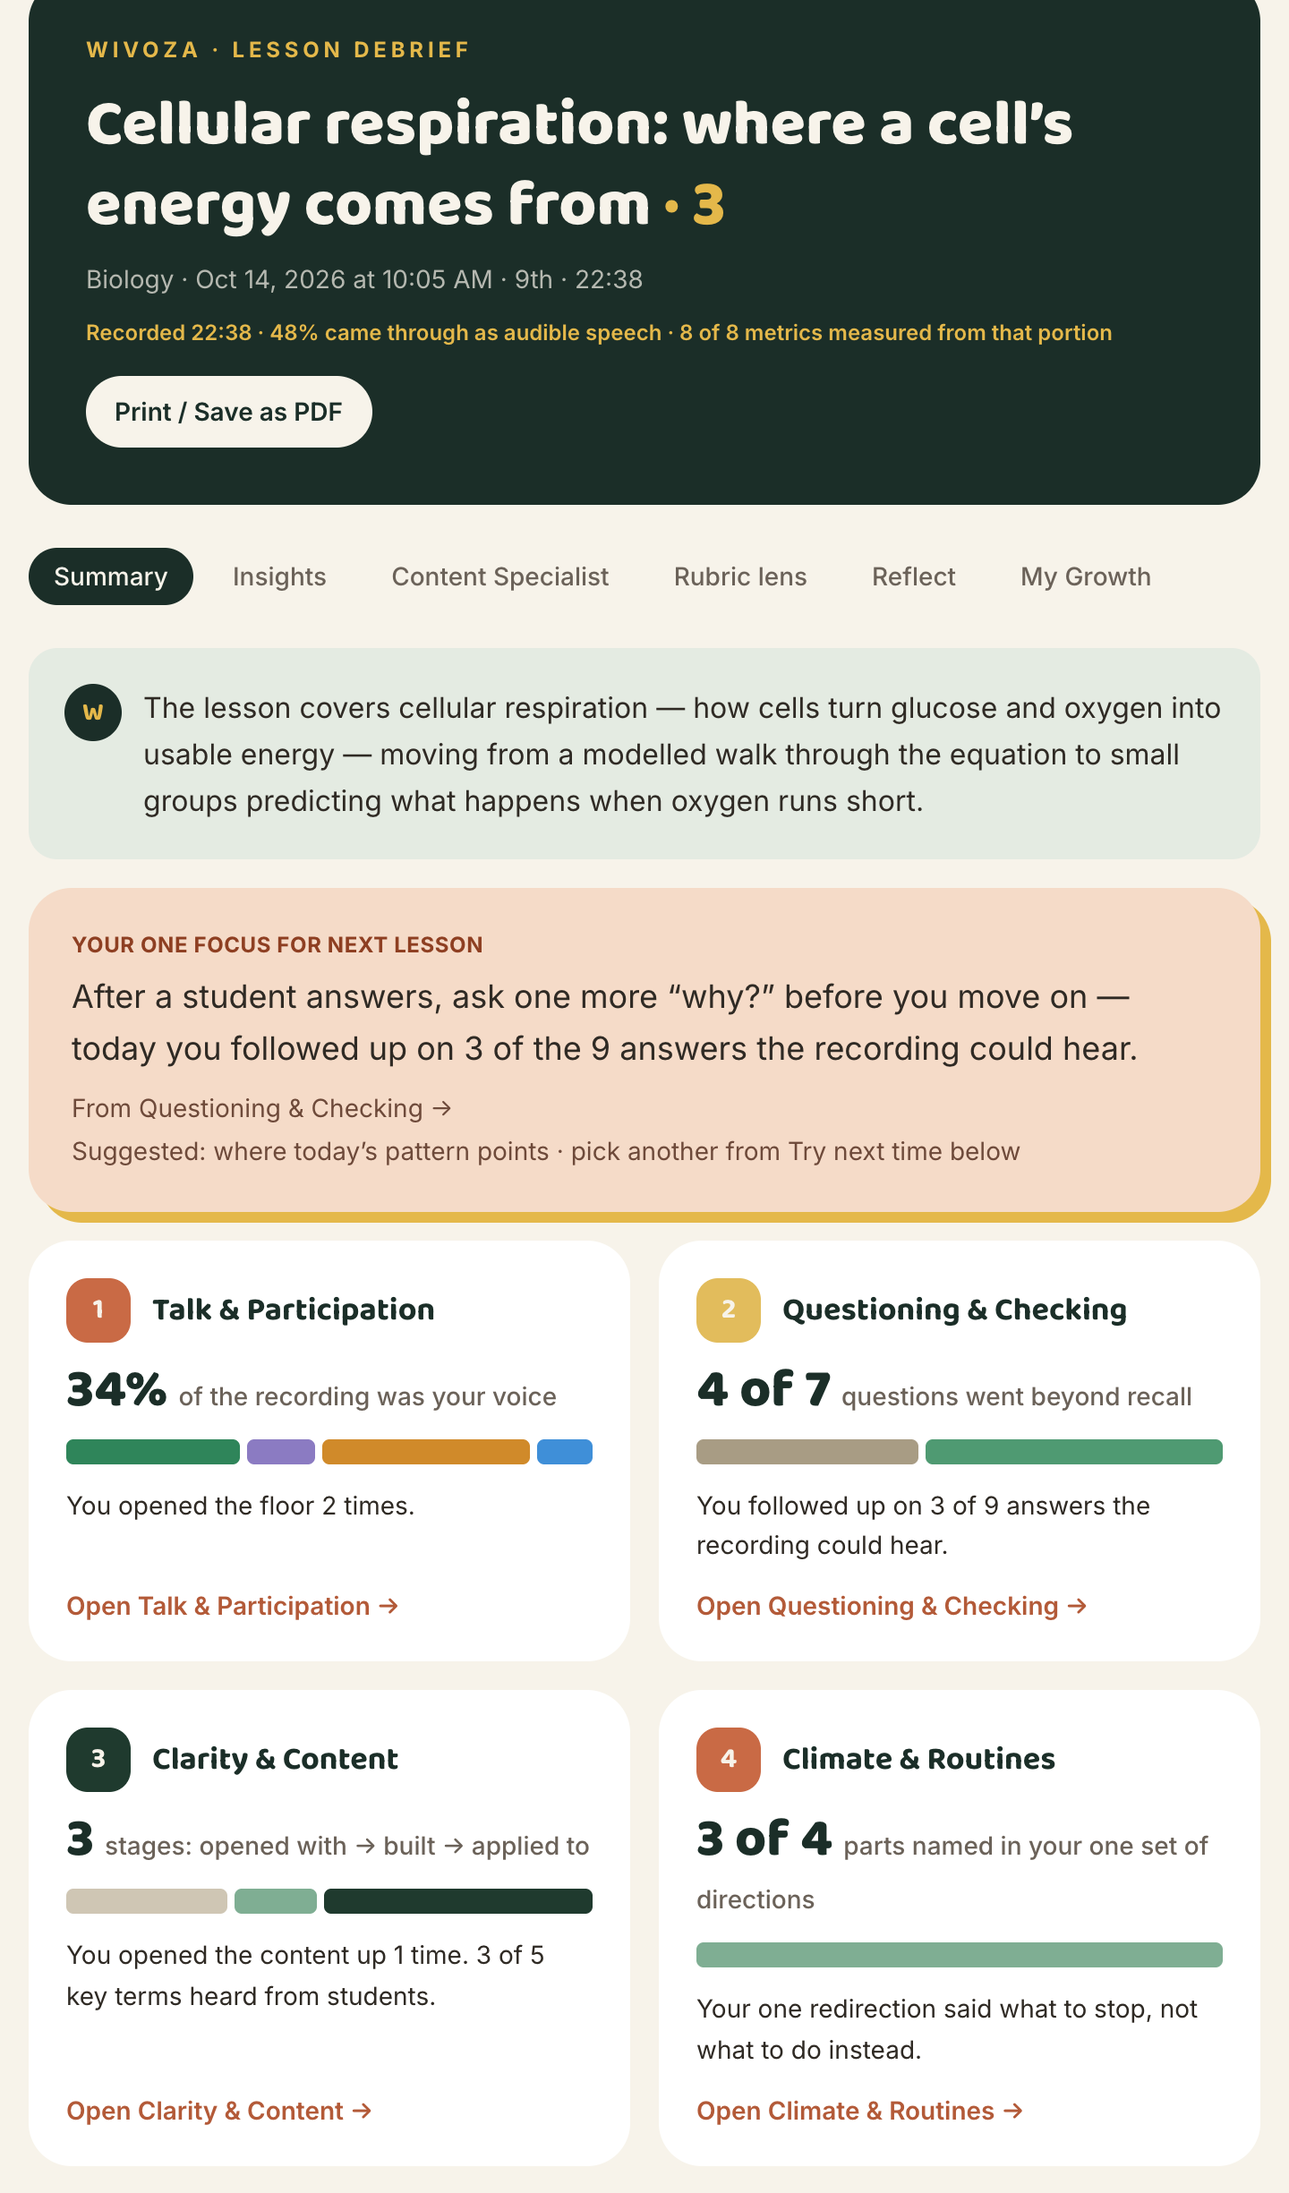
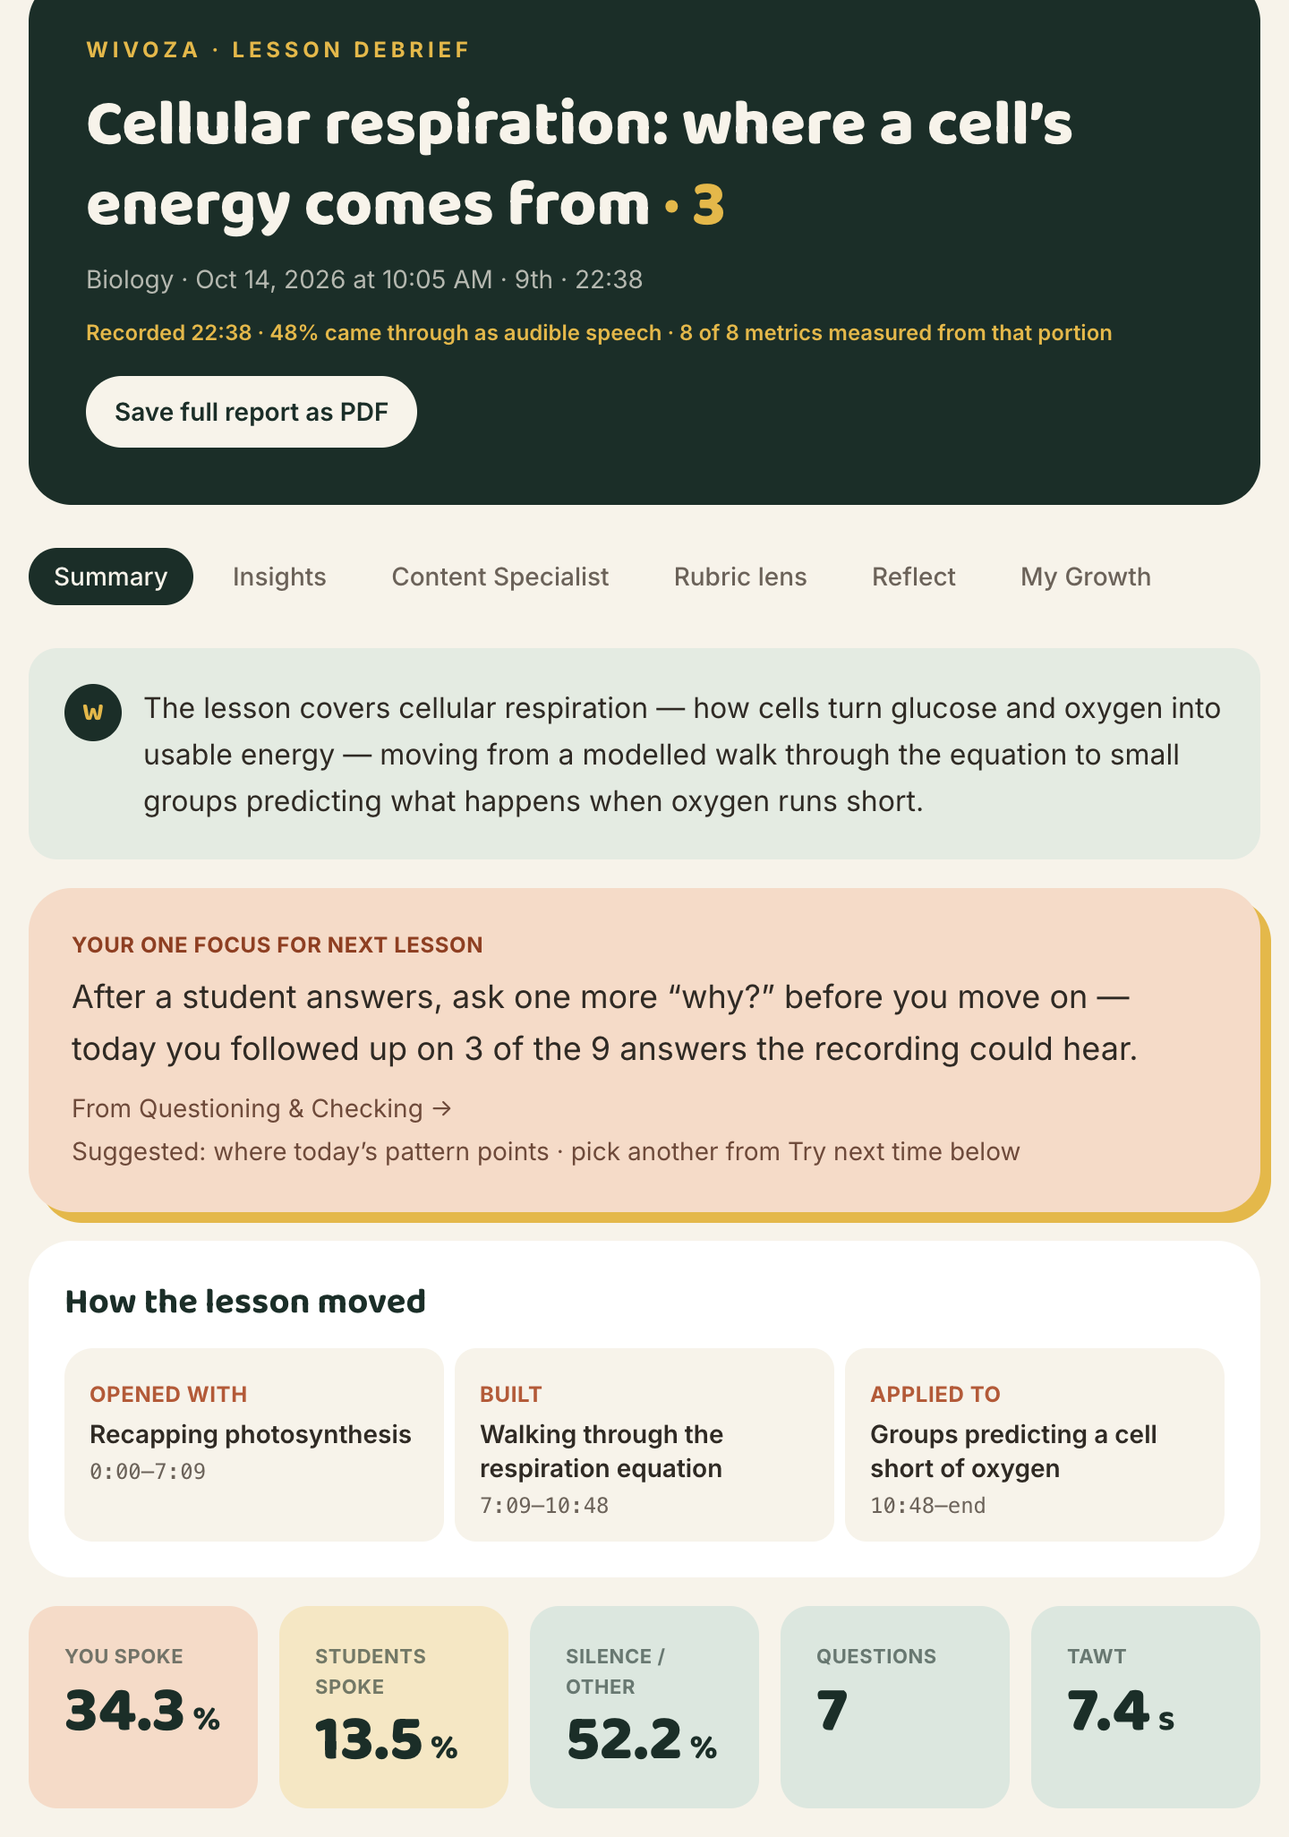
The website describes today's Lesson Debrief: TAWT, the questions timeline, the full PDF
The Guide, the Lesson Debrief guide and the FAQ now describe the Summary's
lesson map and five tiles, Teacher-Anchored Wait Time, the questions
timeline with answered-yourself and follow-up kinds and what is heard but
not counted, and saving the full report as a PDF. The home page hero's
Summary screenshot is retaken with the new layout; the capture script now
also renames the lesson's stages and fails if any real-lesson word is left
in the shot.

diff --git a/web/src/pages/Guide.tsx b/web/src/pages/Guide.tsx
@@ -201,17 +201,17 @@ const TELEGRAM: Feature = {
 }
 
 const REPORT_TABS: SpecItem[] = [
-  { label: 'Summary', body: 'the 60-second read. It opens with what the lesson covered, then your one focus for next lesson — suggested from the pattern across the report, or one you pick yourself. Below it, one card per Insights section with the number that section leads with, one thing to keep doing (with your own words and the time you said them), and a "Try next time" list that gathers every suggestion in the report. Any item on that list can become your focus, and the report asks whether you want to plan your next class with it in mind, carrying the ones you tick into Planning Coach. The whole-lesson Hard Look opens from here too.' },
-  { label: 'Insights', body: 'the detail, in four sections — see below. Each one opens with a short note, shows its evidence as your own words with timestamps, and ends with one thing to keep and one to try. Each can also be given the Hard Look: on request, the least generous reading its evidence supports, with the moments behind it. Where the recording cannot carry a criticism it says so, and it never appears in the printable report.' },
+  { label: 'Summary', body: 'the 60-second read. It opens with what the lesson covered, then your one focus for next lesson — suggested from the pattern across the report, or one you pick yourself. Below it, how the lesson moved — what it opened with, built and applied to, with the times — and the lesson’s numbers: your share of the recording, the students’ share, silence and other sound, the questions you asked, and your Teacher-Anchored Wait Time. Then one thing to keep doing (with your own words and the time you said them), and a "Try next time" list that gathers every suggestion in the report. Any item on that list can become your focus, and the report asks whether you want to plan your next class with it in mind, carrying the ones you tick into Planning Coach. The whole-lesson Hard Look opens from here too, and so does Save the full report as a PDF: this Summary and all four Insights sections, each on its own page, with every list opened up.' },
+  { label: 'Insights', body: 'the detail, in four sections — see below. Each one opens with a short note, shows its evidence as your own words with timestamps, and ends with one thing to keep and one to try. Each can also be given the Hard Look: on request, the least generous reading its evidence supports, with the moments behind it. Where the recording cannot carry a criticism it says so, and it never appears in the PDF.' },
   { label: 'Content Specialist', body: 'ideas for teaching this subject from a subject-area specialist\'s point of view — what worked, where it could go further, and where students tend to get stuck — each tied to a moment in the lesson. It is ideas for the topic, not a read of how you taught it.' },
   { label: 'Rubric lens', body: 'on request, this lesson sorted under the Danielson rubric\'s Domains 2 and 3 — the moments that speak to each component and one next step for it. Never a level or a score.' },
   { label: 'Reflect', body: 'a spoken debrief with Coach about what the report found. Pick a starting point (talk through today\'s highlights, explore a specific moment, reflect on how the lesson felt, or ask your own question), then talk it through — pause, resume, or type instead at any point. Finish with your own Strengths / Growth areas / My next step / Follow-up date notes, optionally drafted for you from the conversation, and a Lock button that makes the whole report permanently read-only.' },
-  { label: 'My Growth', body: 'seven measures trended across every session you\'ve recorded — your pace, your share of the talk, your longest unbroken stretch, the pause after an answer, follow-up questions, questions beyond recall, and checks for understanding. Pick one as your active focus and it\'s highlighted here and on Summary.' },
+  { label: 'My Growth', body: 'seven measures trended across every lesson you\'ve recorded — your pace, your share of the talk, your longest unbroken stretch, the pause after an answer, follow-up questions, questions beyond recall, and checks for understanding. Pick one as your active focus and it\'s highlighted here and on Summary.' },
 ]
 
 const INSIGHTS_SECTIONS: SpecItem[] = [
   { label: 'Talk & Participation', body: 'who was heard, and for how long: your share of the recording, the students\' share, and your pace in words a minute, then the recording minute by minute. Below that, how you brought students in — invitations to share, follow-ups that asked for more, and reaching beyond volunteers — on one timeline, with every moment in order.' },
-  { label: 'Questioning & Checking', body: 'your questions and checks for understanding on one timeline, each question sorted as recall, explain, or reasoning, so you can see how many went beyond recall. Then who you asked (open to anyone or a student by name) and your follow-ups — how many of the student answers the recording could hear you built on, and which ones you didn\'t.' },
+  { label: 'Questioning & Checking', body: 'your questions and checks for understanding on one timeline, each in its own colour: recall, explain and reasoning (so you can see how many went beyond recall), questions you answered yourself before a student could, and follow-ups straight after a student answer. Tap a kind or a dot to see its moments. Under it, Teacher-Anchored Wait Time (TAWT): after each question that asked students to explain or reason, the time until you spoke again, any answer included, listed question by question with whether a student answered. Then what was heard but not counted as a question: "right?" and "okay?" tags, and housekeeping questions like "where is it?".' },
   { label: 'Clarity & Content', body: 'how the lesson moved — what it opened with, built, and applied to, with the times — then the moments you made the content clear, sorted into examples & explanations, linking ideas, and real-world connections, and how many of the lesson\'s key terms were heard from students.' },
   { label: 'Climate & Routines', body: 'how your words set up the work, kept it on track, and encouraged students: directions & routines (and which of the four parts — what to do, the steps, how long, what to hand in — each set of directions named), redirection & expectations, and encouragement & respect. All as your own words, never a behavior score.' },
 ]
@@ -228,7 +228,7 @@ const LESSON_DEBRIEF: Feature = {
     { label: 'Before recording', body: 'class/subject, period, grade level, and session date are all optional.' },
     { label: 'While recording', body: 'a running timer with record, pause, resume, and stop controls, capturing entirely in your browser.' },
     { label: 'After you stop', body: 'Wivoza transcribes the recording, then shows you a sample line from each detected voice and asks which one is the teacher — everyone else is grouped as Student. The audio is discarded at that point; only the text goes on to the report.' },
-    { label: 'Managing sessions', body: 'set a retention period in Profile (7 / 30 / 90 days, or indefinite), lock a report to make it permanently read-only, export a printable copy, or delete it outright.' },
+    { label: 'Managing sessions', body: 'set a retention period in Profile (7 / 30 / 90 days, or indefinite), lock a report to make it permanently read-only, save the full report as a PDF, or delete it outright.' },
   ],
 }
 

diff --git a/web/src/pages/GuideLessonDebrief.tsx b/web/src/pages/GuideLessonDebrief.tsx
@@ -55,7 +55,7 @@ const STEPS = [
   },
   {
     title: 'Read the report',
-    body: 'Summary first: what the lesson covered, your one focus for next lesson, one card for each of the four Insights sections, and one thing to keep doing. Insights holds the detail. My Growth shows the same numbers trending across every session you’ve recorded.',
+    body: 'Summary first: what the lesson covered, your one focus for next lesson, how the lesson moved, its numbers, and one thing to keep doing. Insights holds the detail. My Growth shows the same numbers trending across every session you’ve recorded.',
   },
   {
     title: 'Talk it through',
@@ -66,7 +66,7 @@ const STEPS = [
 const TABS = [
   {
     name: 'Summary',
-    body: 'What the lesson covered, your one focus for next lesson, a card for each Insights section, one thing to keep doing, and a “Try next time” list you can carry straight into your next plan.',
+    body: 'What the lesson covered, your one focus for next lesson, how the lesson moved, the lesson’s numbers, one thing to keep doing, and a “Try next time” list you can carry straight into your next plan. Save the whole report as a PDF from here.',
   },
   {
     name: 'Insights',
@@ -92,11 +92,11 @@ const TABS = [
 
 const STORY = [
   'Mr. Boateng is proud of third-period science. It’s discussion-based, students argue about evidence, and the room is never quiet. He records it expecting the report to confirm what he already believes.',
-  'It doesn’t, exactly. Talk & Participation shows he was speaking for 74% of the period. His average wait time after a question is 1.2 seconds.',
+  'It doesn’t, exactly. Talk & Participation shows he was speaking for 74% of the period. His Teacher-Anchored Wait Time — how long he leaves a thinking question with the class before he speaks again — is 1.2 seconds.',
   'His first reaction is to argue with it — a lot of that talk was him restating student ideas so the class could hear them. Which is true, and it’s also the finding.',
   'In the Reflect tab he says exactly that out loud. Coach asks what would happen if he waited instead of restating. He doesn’t love the answer: probably silence, and he’d fill it.',
   'His next step is small enough to actually do: after each open question, count to five in his head before saying anything. He writes it in his notes and sets a follow-up date for two weeks out.',
-  'The next recording isn’t a transformation. Wait time is 2.9 seconds and his talk share is 66% — better, not fixed. But My Growth now has two points on a line instead of one opinion, and he knows which direction it’s going.',
+  'The next recording isn’t a transformation. His wait time is 2.9 seconds and his talk share is 66% — better, not fixed. But My Growth now has two points on a line instead of one opinion, and he knows which direction it’s going.',
 ]
 
 const DEBRIEF_QUESTIONS = [
@@ -147,19 +147,36 @@ function SampleReport() {
         <p className="mt-1.5 text-xs text-ink-soft">Suggested: where today’s pattern points · or pick another from Try next time</p>
       </div>
 
-      <div className="grid gap-3 sm:grid-cols-2">
+      <div className="rounded-xl border border-hairline bg-cream-card p-4">
+        <p className="text-sm font-semibold text-ink">How the lesson moved</p>
+        <div className="mt-2 grid gap-1.5 sm:grid-cols-3">
+          {[
+            { role: 'Opened with', title: 'Recapping photosynthesis', time: '0:00–6:40' },
+            { role: 'Built', title: 'Walking through the respiration equation', time: '6:40–18:15' },
+            { role: 'Applied to', title: 'Groups predicting a cell short of oxygen', time: '18:15–end' },
+          ].map((st) => (
+            <div key={st.role} className="rounded-lg bg-cream px-3 py-2">
+              <p className="text-[11px] font-bold uppercase tracking-wide text-terracotta-600">{st.role}</p>
+              <p className="text-sm font-semibold leading-snug text-ink">{st.title}</p>
+              <p className="font-mono text-[11px] text-ink-soft">{st.time}</p>
+            </div>
+          ))}
+        </div>
+      </div>
+
+      <div className="grid grid-cols-2 gap-2 sm:grid-cols-5">
         {[
-          { n: 1, name: 'Talk & Participation', big: '62%', line: 'of the recording was your voice' },
-          { n: 2, name: 'Questioning & Checking', big: '9 of 22', line: 'questions went beyond recall' },
-          { n: 3, name: 'Clarity & Content', big: '3', line: 'stages: opened with → built → applied to' },
-          { n: 4, name: 'Climate & Routines', big: '2 of 3', line: 'sets of directions named every part' },
-        ].map((c) => (
-          <div key={c.n} className="rounded-xl border border-hairline bg-cream-card p-4">
-            <p className="text-xs font-semibold uppercase tracking-wide text-ink-soft">
-              {c.n} · {c.name}
-            </p>
-            <p className="mt-1.5 text-sm text-ink">
-              <strong className="font-heading text-lg font-extrabold text-forest">{c.big}</strong> {c.line}
+          { label: 'You spoke', value: '62', unit: '%', tint: 'bg-peach-tint' },
+          { label: 'Students spoke', value: '27', unit: '%', tint: 'bg-gold-tint' },
+          { label: 'Silence / other', value: '11', unit: '%', tint: 'bg-mint-tint' },
+          { label: 'Questions', value: '22', unit: '', tint: 'bg-mint-tint' },
+          { label: 'TAWT', value: '2.4', unit: 's', tint: 'bg-mint-tint' },
+        ].map((t) => (
+          <div key={t.label} className={`rounded-xl px-3 py-2.5 ${t.tint}`}>
+            <p className="text-[10px] font-bold uppercase tracking-wide text-forest/60">{t.label}</p>
+            <p className="font-heading text-2xl font-extrabold leading-tight text-forest">
+              {t.value}
+              {t.unit && <span className="ml-0.5 text-sm font-bold">{t.unit}</span>}
             </p>
           </div>
         ))}

diff --git a/web/src/pages/Faq.tsx b/web/src/pages/Faq.tsx
@@ -73,7 +73,15 @@ const CATEGORIES: Category[] = [
       },
       {
         q: 'What do I get from a Lesson Debrief?',
-        a: 'A private report with six tabs. Summary is the 60-second read: what the lesson covered, one focus for next lesson, a card for each of four sections, and one thing to keep doing. Insights has the detail in those four sections — Talk & Participation, Questioning & Checking, Clarity & Content, and Climate & Routines — always shown in your own words, with the time you said them. Content Specialist offers a subject specialist\'s ideas for teaching the topic. Rubric lens, Reflect, and My Growth cover the rest.',
+        a: 'A private report with six tabs. Summary is the 60-second read: what the lesson covered, one focus for next lesson, how the lesson moved, its numbers, and one thing to keep doing. Insights has the detail in those four sections — Talk & Participation, Questioning & Checking, Clarity & Content, and Climate & Routines — always shown in your own words, with the time you said them. Content Specialist offers a subject specialist\'s ideas for teaching the topic. Rubric lens, Reflect, and My Growth cover the rest.',
+      },
+      {
+        q: 'What is Teacher-Anchored Wait Time (TAWT)?',
+        a: 'After each question that asks students to explain or reason, how long you left it with the class before you spoke again, with any student answer included. The report lists each of those questions with its time, and whether a student answered, no one did, or you kept talking. It measures your side of the pause, which the microphone hears reliably even when students are faint. When no one answered, three seconds or more of silence gives most students time to think.',
+      },
+      {
+        q: 'Can I save or share a Lesson Debrief?',
+        a: 'Yes. On the Summary, choose Save the full report as a PDF. You get the Summary and all four Insights sections, each on its own page, with every list opened up. The Hard Look is never included. The PDF is yours to keep or pass on; nothing is shared unless you send it.',
       },
       {
         q: 'What if the recording only caught part of the lesson?',
@@ -81,7 +89,7 @@ const CATEGORIES: Category[] = [
       },
       {
         q: 'What is the Hard Look?',
-        a: 'An optional second reading of a Lesson Debrief that says the least generous thing the evidence can support, with the moments it is based on — for the whole lesson from the Summary, or for one section from the foot of that section. You ask for it; it never appears on its own. Where the recording cannot carry a criticism it says so, and it is left out of the printable report, so it stays between you and Coach.',
+        a: 'An optional second reading of a Lesson Debrief that says the least generous thing the evidence can support, with the moments it is based on — for the whole lesson from the Summary, or for one section from the foot of that section. You ask for it; it never appears on its own. Where the recording cannot carry a criticism it says so, and it is left out of the PDF, so it stays between you and Coach.',
       },
       {
         q: 'Does the Rubric lens rate my lesson?',

diff --git a/web/src/pages/Landing.tsx b/web/src/pages/Landing.tsx
@@ -297,14 +297,14 @@ function ReportMockup() {
           <p className="text-xs text-ink-soft">Your Lesson Debrief · Sample</p>
           <LockIcon className="h-4 w-4 text-ink-soft" />
         </div>
-        {/* The top of the Summary: the lesson, the one focus, and the first
-            row of section cards. The rest is cut off on purpose. */}
+        {/* The top of the Summary: the lesson, the one focus, how the lesson
+            moved and its numbers. The rest is cut off on purpose. */}
         <div className="h-[30rem] overflow-hidden rounded-xl bg-cream sm:h-[34rem]">
           <img
             src="/samples/hero-debrief-summary.png"
-            alt="A sample Lesson Debrief Summary for an invented biology lesson: what the lesson covered, one focus for next lesson, and a card for each of the four sections."
+            alt="A sample Lesson Debrief Summary for an invented biology lesson: what the lesson covered, one focus for next lesson, how the lesson moved, and the lesson's numbers."
             width={1440}
-            height={2450}
+            height={2052}
             className="w-full"
           />
         </div>
